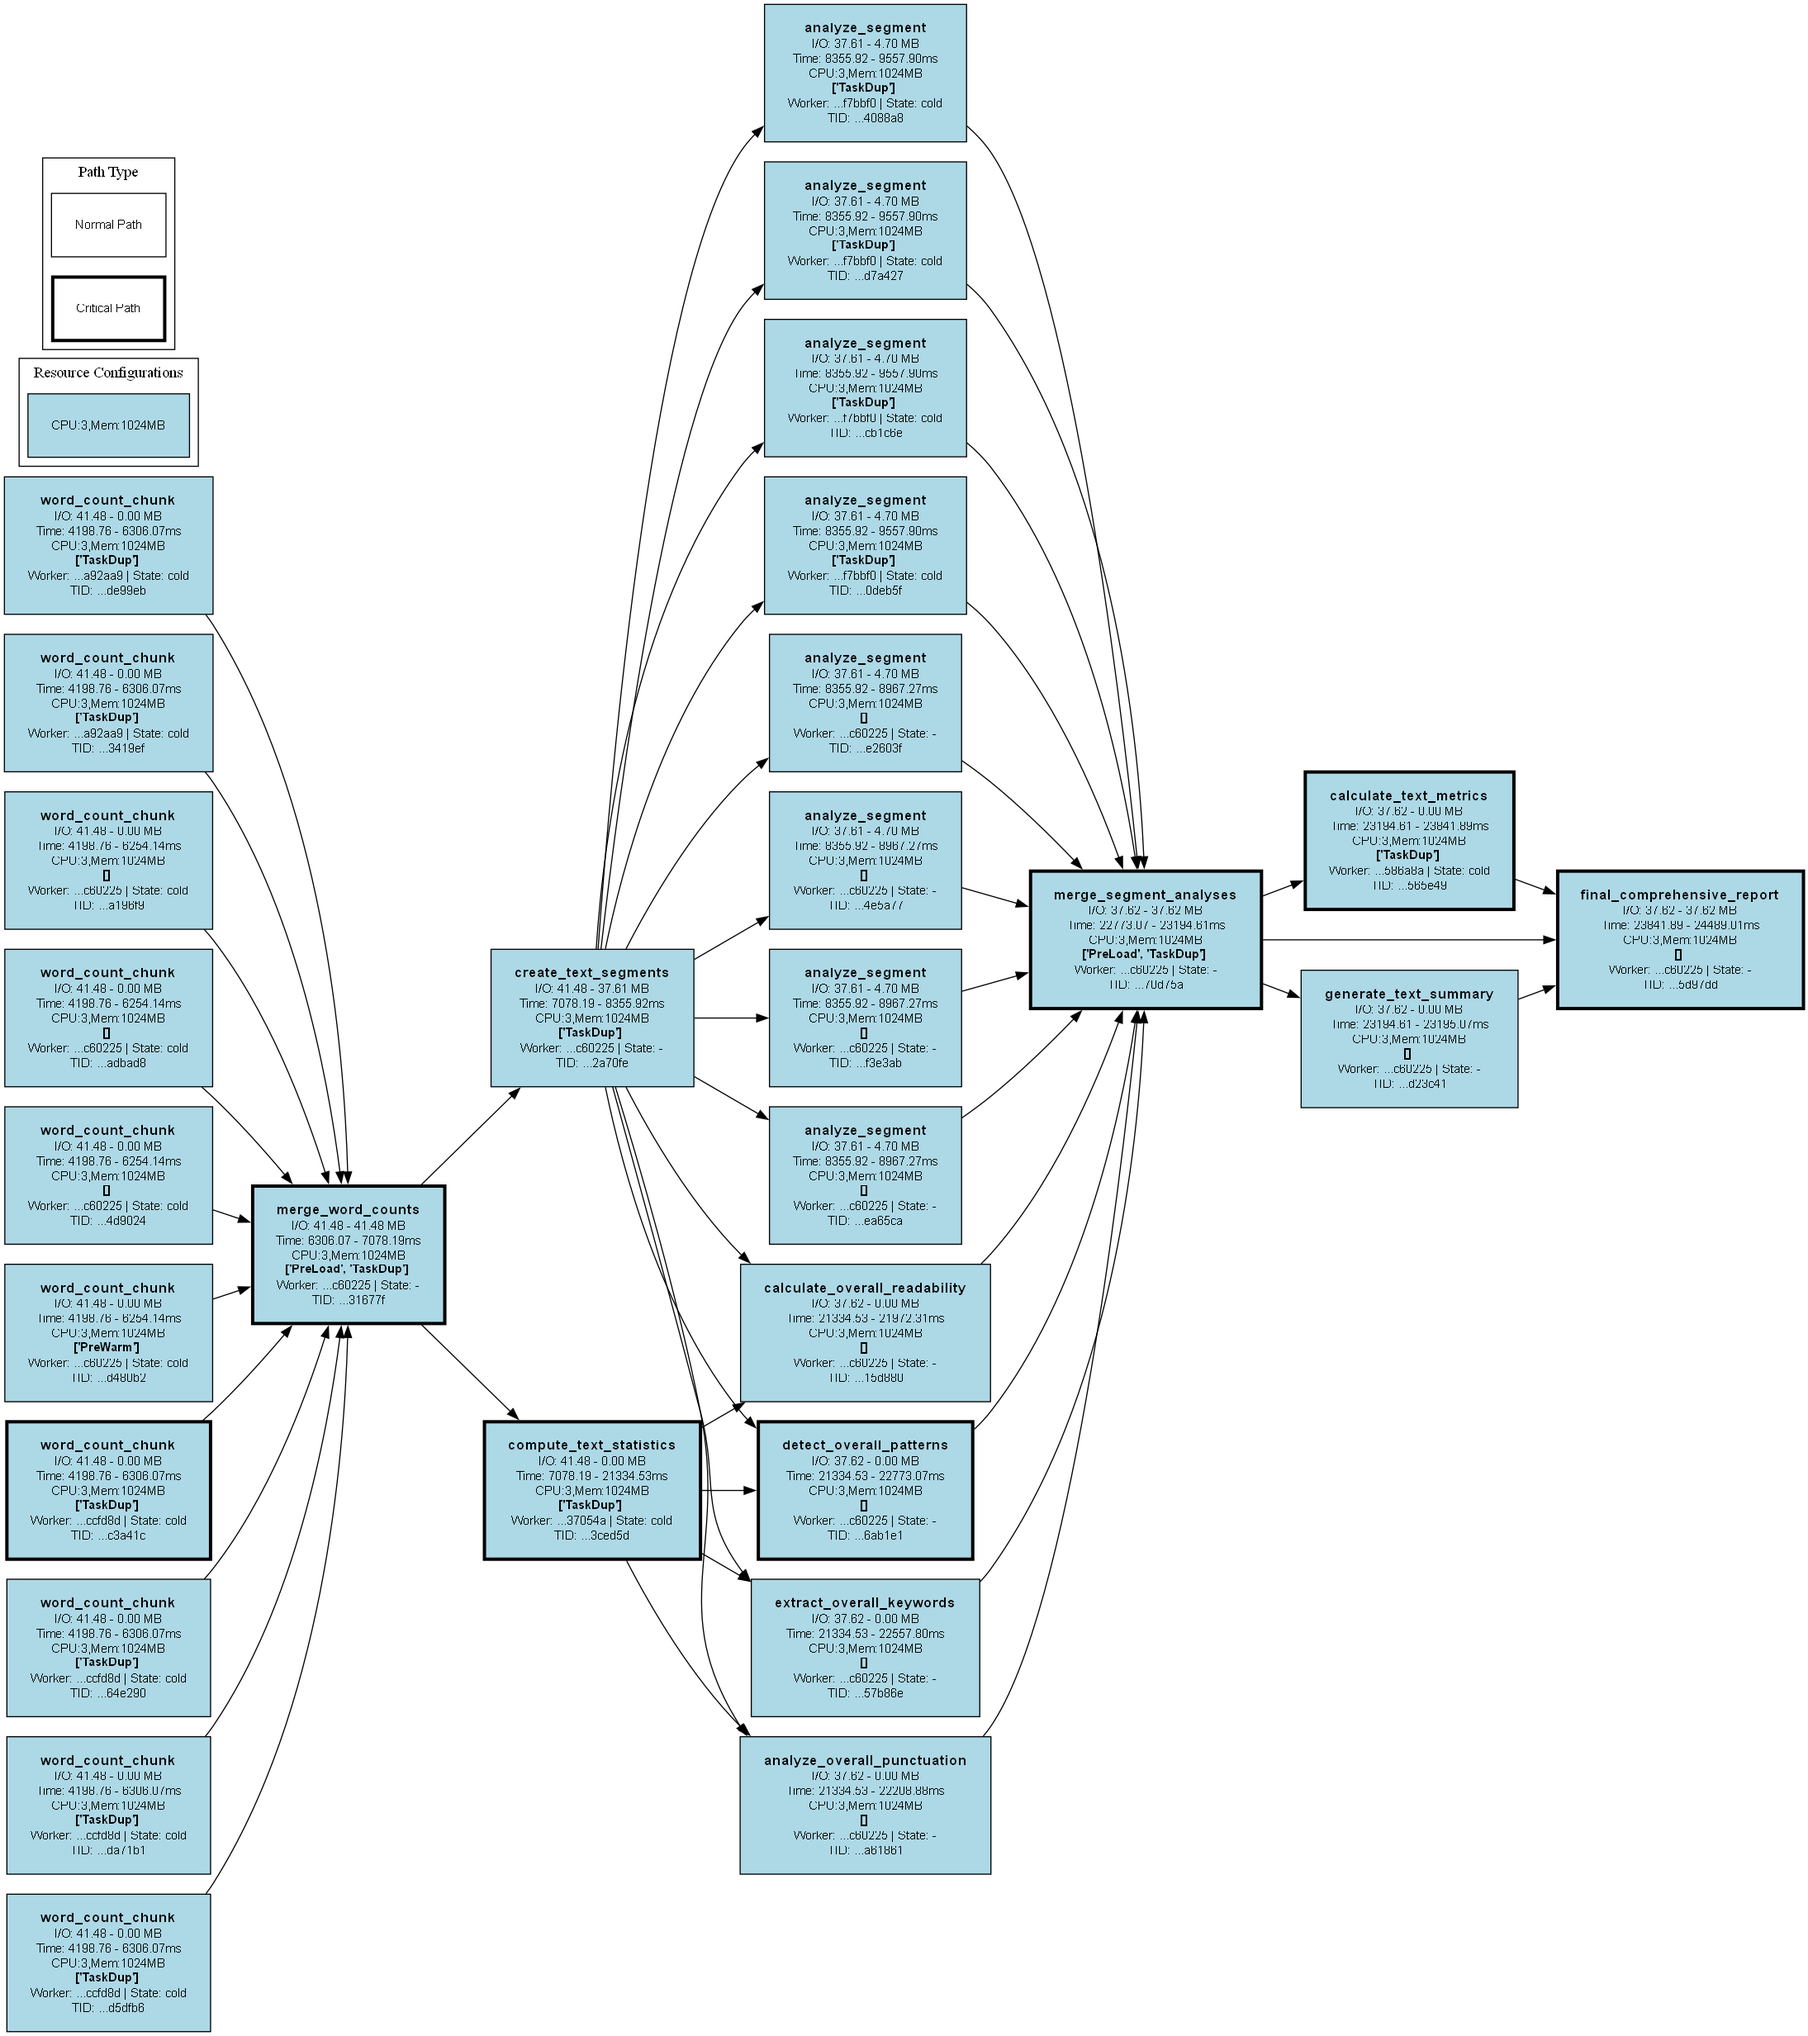
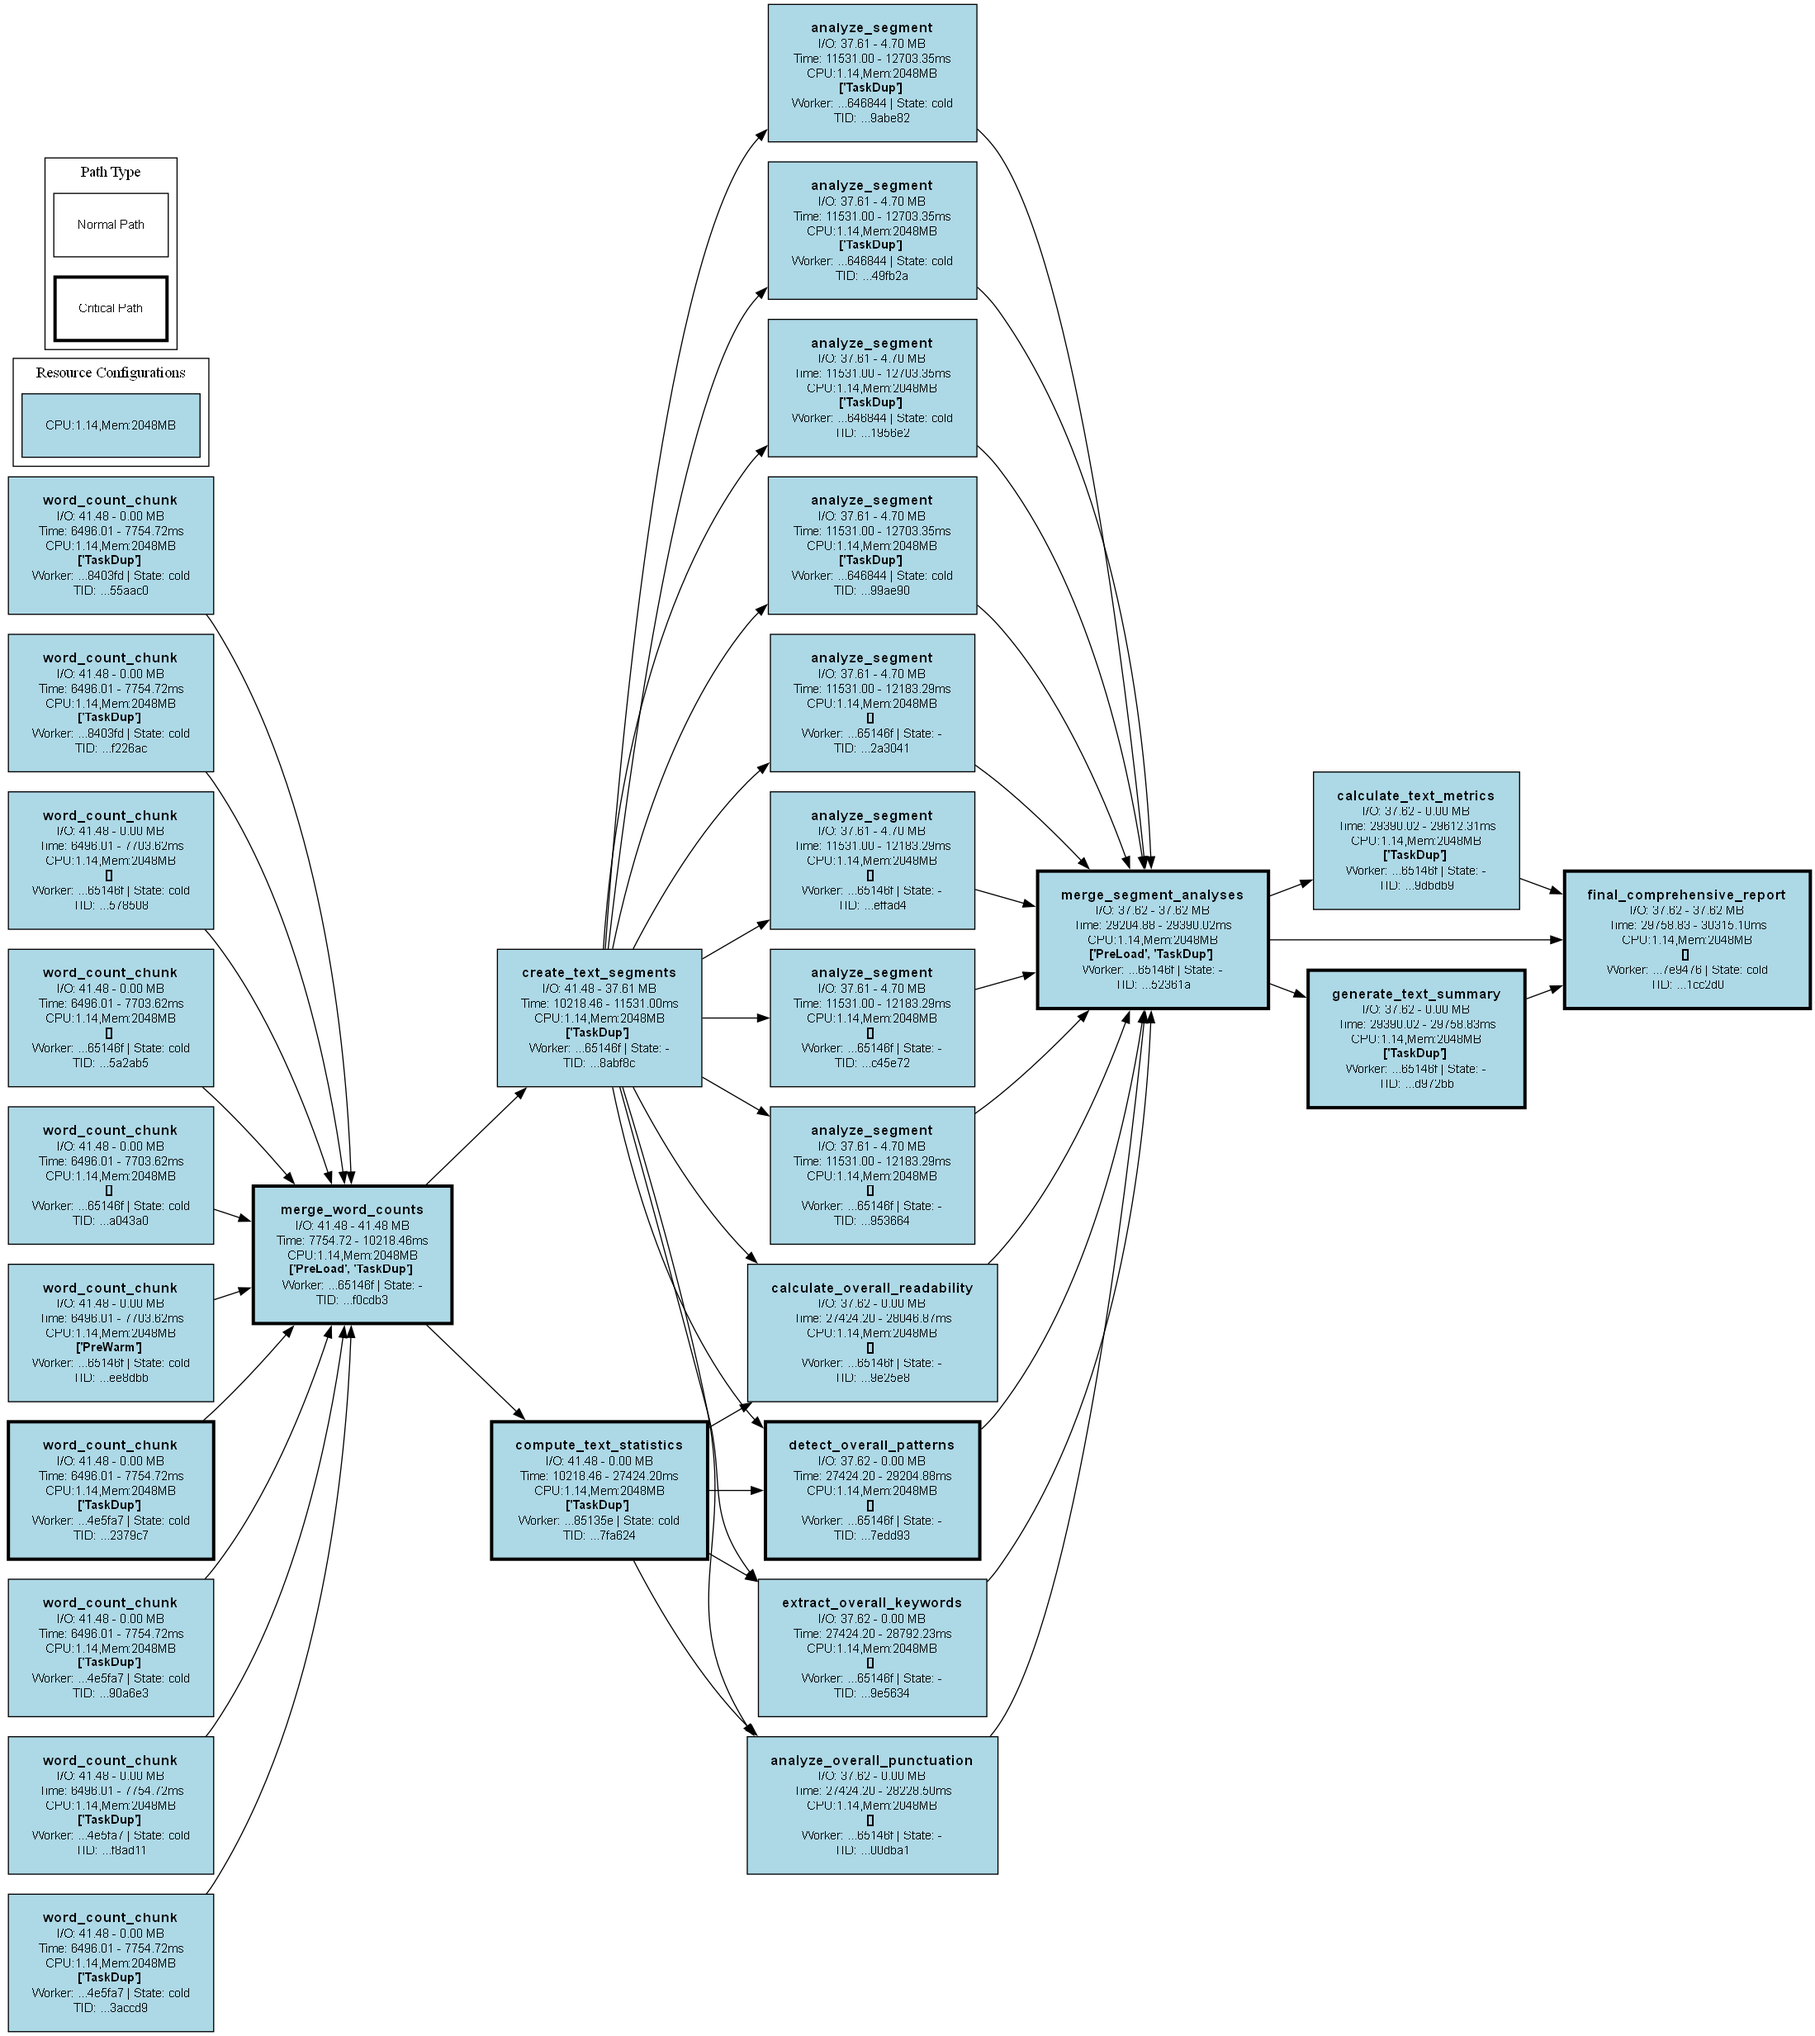
adjust prewarm assignment logic

diff --git a/src/planning/abstract_dag_planner.py b/src/planning/abstract_dag_planner.py
@@ -488,31 +488,23 @@ class AbstractDAGPlanner(WorkerExecutionLogic):
         """
         
         # Track worker availability over time for each resource configuration
-        # Key: (cpus, memory_mb), Value: List of (worker_id, start_ms, end_ms)
-        worker_active_periods: dict[tuple[float, int], list[tuple[str | None, float, float]]] = defaultdict(list)
+        # Key: (memory_mb), Value: List of (worker_id, start_ms, end_ms)
+        worker_active_periods: dict[int, list[tuple[str | None, float, float]]] = defaultdict(list)
 
-        # Collect expected worker activity periods from pre-warming
-        for node in topo_sorted_nodes:
-            my_resource_config = node.worker_config
-            my_node_info = nodes_info[node.id.get_full_id()]
-
-        def _count_available_warm_workers(worker_config: tuple[float, int], target_time_ms: float, 
+        def _count_available_warm_workers(worker_memory: int, target_time_ms: float, 
                                         exclude_worker_id: str | None) -> int:
             """Count how many warm workers are available at the target time."""
             return sum(
-                1 for worker_id, start_ms, end_ms in worker_active_periods[worker_config]
+                1 for worker_id, start_ms, end_ms in worker_active_periods[worker_memory]
                 if worker_id != exclude_worker_id and start_ms < target_time_ms < end_ms
             )
 
-        def _count_concurrent_tasks(resource_config: tuple[float, int], target_time_ms: float, 
-                                    exclude_node_id: str) -> int:
+        def _count_concurrent_tasks(resource_config: int, target_time_ms: float, exclude_node_id: str) -> int:
             """Count how many tasks with same resource config need workers at target_time_ms."""
             count = 0
             for node in topo_sorted_nodes:
-                if node.id.get_full_id() == exclude_node_id:
-                    continue
-                if (node.worker_config.cpus == resource_config[0] and 
-                    node.worker_config.memory_mb == resource_config[1]):
+                if node.id.get_full_id() == exclude_node_id: continue
+                if node.worker_config.memory_mb == resource_config:
                     node_info = nodes_info[node.id.get_full_id()]
                     # Check if this node will be executing at target_time_ms
                     if node_info.earliest_start_ms <= target_time_ms < node_info.task_completion_time_ms:
@@ -526,7 +518,6 @@ class AbstractDAGPlanner(WorkerExecutionLogic):
 
             # Check if any upstream node uses same or compatible worker config
             if any(
-                n.worker_config.cpus == my_resource_config.cpus and \
                 n.worker_config.memory_mb == my_resource_config.memory_mb and \
                 (
                     n.worker_config.worker_id == my_resource_config.worker_id or \
@@ -543,14 +534,13 @@ class AbstractDAGPlanner(WorkerExecutionLogic):
                 continue
 
             # Count available warm workers and concurrent demand
-            resource_key = (my_resource_config.cpus, my_resource_config.memory_mb)
             available_warm_workers = _count_available_warm_workers(
-                resource_key, 
+                my_resource_config.memory_mb, 
                 my_node_info.earliest_start_ms,
                 my_resource_config.worker_id
             )
             concurrent_demand = _count_concurrent_tasks(
-                resource_key,
+                my_resource_config.memory_mb,
                 my_node_info.earliest_start_ms,
                 node.id.get_full_id()
             )
@@ -565,7 +555,7 @@ class AbstractDAGPlanner(WorkerExecutionLogic):
                 my_node_info.task_completion_time_ms += worker_startup_prediction
                 
                 # Register this worker's activity period for future capacity calculations
-                worker_active_periods[resource_key].append((
+                worker_active_periods[my_resource_config.memory_mb].append((
                     my_resource_config.worker_id,
                     my_node_info.earliest_start_ms, 
                     my_node_info.task_completion_time_ms + AbstractDAGPlanner.TIME_UNTIL_WORKER_GOES_COLD_S * 1_000
@@ -579,7 +569,7 @@ class AbstractDAGPlanner(WorkerExecutionLogic):
                 my_node_info.task_completion_time_ms += worker_startup_prediction
                 
                 # Register this NEW worker's activity period
-                worker_active_periods[resource_key].append((
+                worker_active_periods[my_resource_config.memory_mb].append((
                     my_resource_config.worker_id,
                     my_node_info.earliest_start_ms, 
                     my_node_info.task_completion_time_ms + AbstractDAGPlanner.TIME_UNTIL_WORKER_GOES_COLD_S * 1_000

diff --git a/src/planning/optimizations/prewarm.py b/src/planning/optimizations/prewarm.py
@@ -65,7 +65,7 @@ class PreWarmOptimization(TaskOptimization, WorkerExecutionLogic):
         # - 0.0: earliest possible prewarm (maximum time buffer, safest but worker might go cold)
         # - 0.5: balanced
         # - 1.0: latest possible prewarm (closest to target start, riskier but fresher warm state)
-        PREWARM_TIMING_PREFERENCE = 0.75
+        PREWARM_TIMING_PREFERENCE = 0.7
 
         for my_key, my_info in worker_timelines.items():
             # Skip if not cold start or if it's a root node (no upstream)
@@ -75,13 +75,13 @@ class PreWarmOptimization(TaskOptimization, WorkerExecutionLogic):
                 continue
 
             # Check if startup time is significant enough to warrant prewarming
-            total_other_exec = sum(
-                o.tp_exec_time_ms
-                for k, w in worker_timelines.items() if k != my_key
-                for o in w["tasks"]
-            )
-            if not (my_info["startup"] > 0.10 * total_other_exec):
-                continue
+            # total_other_exec = sum(
+            #     o.tp_exec_time_ms
+            #     for k, w in worker_timelines.items() if k != my_key
+            #     for o in w["tasks"]
+            # )
+            # if not (my_info["startup"] > 0.10 * total_other_exec):
+            #     continue
 
             # logger.info(f"[PREWARM-ASSIGNMENT] Will try to prewarm worker {my_key}")
             # Calculate the ideal prewarm trigger time:

diff --git a/_examples/original/image_transformer.py b/_examples/original/image_transformer.py
@@ -25,7 +25,7 @@ def split_image(img: np.ndarray) -> tuple[np.ndarray, ...]:
         for j in range(4):
             chunk = img[i*h_step:(i+1)*h_step, j*w_step:(j+1)*w_step].copy()
             chunks.append(chunk)
-    time.sleep(10) # to "force" planner to assign prewarm
+    time.sleep(9) # to "force" planner to assign prewarm
     return tuple(chunks)  # single DAG node output (tuple)
 
 
